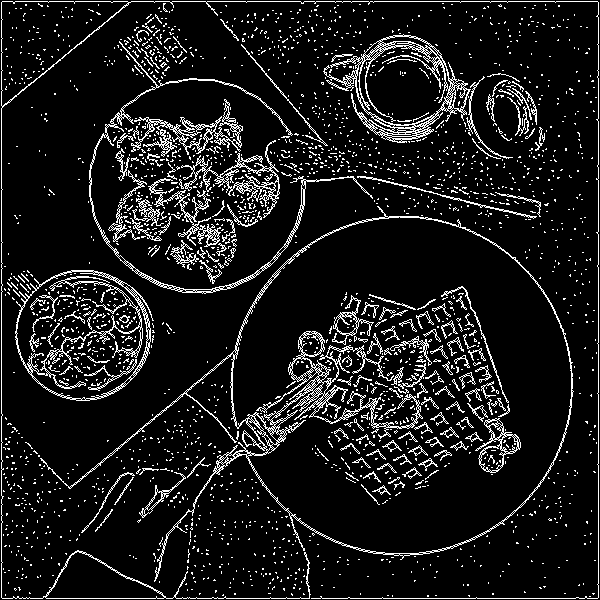
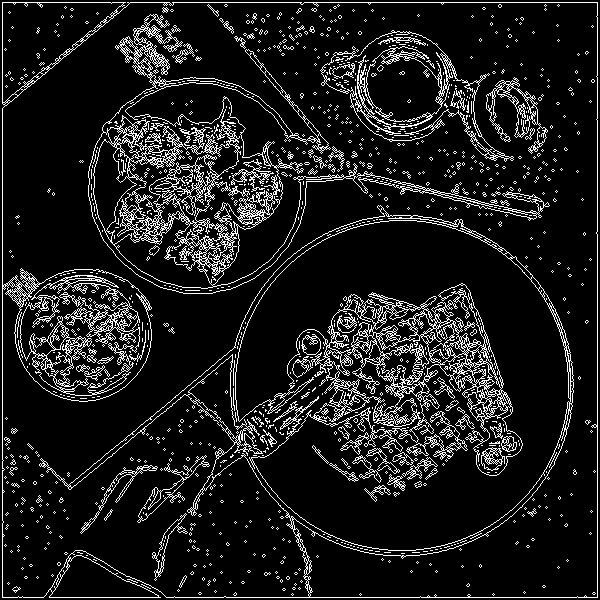
fix the hw2 with correct np.float32 & rho = x * cos(theta) + y * sin(theta)

diff --git a/HW/HW2/hw2_r10625016/P1.py b/HW/HW2/hw2_r10625016/P1.py
@@ -20,8 +20,8 @@ def sobel_alg(img, weight = 1):
         [-1, -2, -1]
     ], dtype=np.float32)
 
-    gradient_r = (convolve2d(img, kernel_r) * weight).astype(np.int32) 
-    gradient_c = (convolve2d(img, kernel_c) * weight).astype(np.int32) 
+    gradient_r = (convolve2d(img, kernel_r) * weight)
+    gradient_c = (convolve2d(img, kernel_c) * weight)
 
     magnitude = np.sqrt(gradient_r**2 + gradient_c**2)
     theta = np.arctan2(gradient_c, gradient_r) * 180 / np.pi
@@ -36,12 +36,17 @@ def convolve2d(img, kernel):
     kernel_h, kernel_w = kernel.shape
     pad_h, pad_w = kernel_h // 2, kernel_w // 2
     padded_img = np.pad(img, ((pad_h, pad_h), (pad_w, pad_w)), 'constant')
-    
-    output_img = np.zeros_like(img)
+
+    ''' 
+    remember: cv2.imread() is np.int8, so we have to convert it to np.float32 
+    if we want to do flexible calculation out of [0, 255] range
+    '''
+    output_img = np.zeros_like(img).astype(np.float32)
 
     for i in range(img_h):
         for j in range(img_w):
             tile = padded_img[i:i+kernel_h, j:j+kernel_w]
+            # print(tile*kernel, '\n')
             output_img[i, j] = np.sum(tile * kernel)
     
     return output_img
@@ -86,7 +91,7 @@ def non_max_suppression(magnitude, theta): # theta is the direction of gradient,
     
     return output_img
 
-def double_thresholding(img, higher_bound = 0.75, lower_bound = 0.45):
+def double_thresholding(img, higher_bound = 0.1, lower_bound = 0.05):
     img_h, img_w = img.shape
     output_img = np.zeros_like(img)
 
@@ -140,7 +145,8 @@ def enhanced_noise_reduction(img):
     return gaussian_filtered_img
 
 def noise_reduction(img):
-    gaussian_filtered_img = gaussian_filter(img, 7, 2) # sigma = 2, kernel size = 7
+    gaussian_filtered_img = gaussian_filter(img, 3, 1) # sigma = 1, kernel size = 3
+    # gaussian_filtered_img = gaussian_filter(img, 7, 2) # sigma = 2, kernel size = 7
 
     return gaussian_filtered_img
 
@@ -216,14 +222,20 @@ def hough_transform(img, threshold=100):
     # https://homepages.inf.ed.ac.uk/rbf/HIPR2/hough.htm
     img_h, img_w = img.shape
     max_rho = int(math.sqrt(img_h**2 + img_w**2))
-    accumulator = np.zeros((2*max_rho, 180), dtype=np.uint32)
+    accumulator = np.zeros((2*max_rho, 180))
 
     for i in range(img_h):
         for j in range(img_w):
             if img[i, j] == 255:
                 for theta in range(180):
-                    # rho = x * cos(theta) + y * sin(theta)
-                    rho = int(i * np.cos(np.deg2rad(theta)) + j * np.sin(np.deg2rad(theta)))
+                    '''
+                    rho = x * cos(theta) + y * sin(theta)
+                    rho ^ 2 = x^2 + y^2
+                    rho ^ 2  = x * (rho * cos(theta)) + y * (rho * sin(theta))
+                    rho ^ 2 = rho * (x * cos(theta) + y * sin(theta))
+                    rho = x * cos(theta) + y * sin(theta)
+                    '''
+                    rho = int(j * np.cos(np.deg2rad(theta)) + i * np.sin(np.deg2rad(theta)))
                     accumulator[rho, theta] += 1
 
     lines = []
@@ -250,24 +262,6 @@ def draw_lines(img, lines):
 
     cv2.imwrite('result7.png', img)
 
-def draw_lines_(img, lines):
-    img = cv2.cvtColor(img, cv2.COLOR_GRAY2BGR)
-
-    for line in lines:
-        rho, theta = line[0]
-        a = np.cos(np.deg2rad(theta))
-        b = np.sin(np.deg2rad(theta))
-        x0 = a * rho
-        y0 = b * rho
-        x1 = int(x0 + 1000 * (-b))
-        x2 = int(x0 - 1000 * (-b))
-        y1 = int(y0 + 1000 * (a))
-        y2 = int(y0 - 1000 * (a))
-
-        cv2.line(img, (x1, y1), (x2, y2), (0, 255, 255), 2)
-    
-    cv2.imwrite('result7_2.png', img)
-
 def thresholding(img, threshold):
     img[img < threshold] = 0
     img[img >= threshold] = 255
@@ -287,7 +281,7 @@ def p1_a():
 
 def p1_b():
     img = cv2.imread('hw2_sample_images/sample1.png', cv2.IMREAD_GRAYSCALE)
-    canny_img = canny_alg(img, enhanced=True)
+    canny_img = canny_alg(img, enhanced=False)
     cv2.imwrite('result3.png', canny_img)
 
 def p1_c():
@@ -305,8 +299,6 @@ def p1_d():
 def p1_e():
     img_ = cv2.imread('result5.png', cv2.IMREAD_GRAYSCALE)
     img = img_.copy()
-    for i in range(5):
-        img = gaussian_filter(img, 5, 2) # sigma = 1, kernel size = 3
     canny_img = canny_alg(img)
     cv2.imwrite('result6.png', canny_img)
 
@@ -314,7 +306,7 @@ def p1_e():
     # cv2.imwrite('result6_2.png', canny_img_2)
     
     r6 = cv2.imread('result6.png', cv2.IMREAD_GRAYSCALE)
-    hough_lines = hough_transform(r6, 80) 
+    hough_lines = hough_transform(r6, 120) 
     draw_lines(r6, hough_lines)
 
     # hough_lines_ = cv2.HoughLines(r6, 1, np.pi/180, 100)
@@ -322,8 +314,8 @@ def p1_e():
     # cv2.imwrite('result7_2.png', r6)
 
 if __name__ == '__main__':
-    p1_a()
-    p1_b()
-    p1_c()
-    p1_d()
+    # p1_a()
+    # p1_b()
+    # p1_c()
+    # p1_d()
     p1_e()
